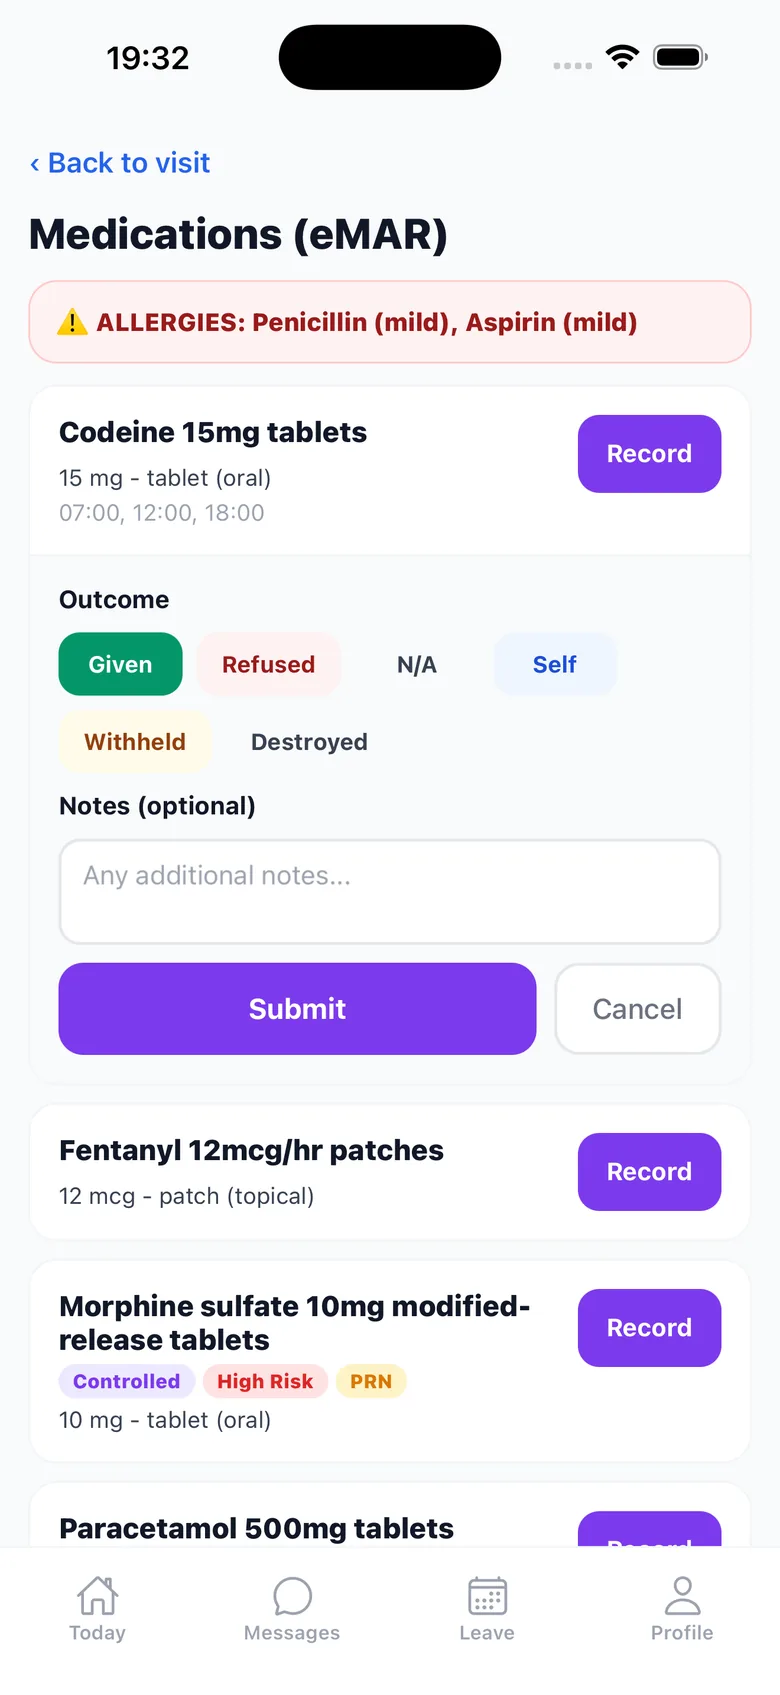
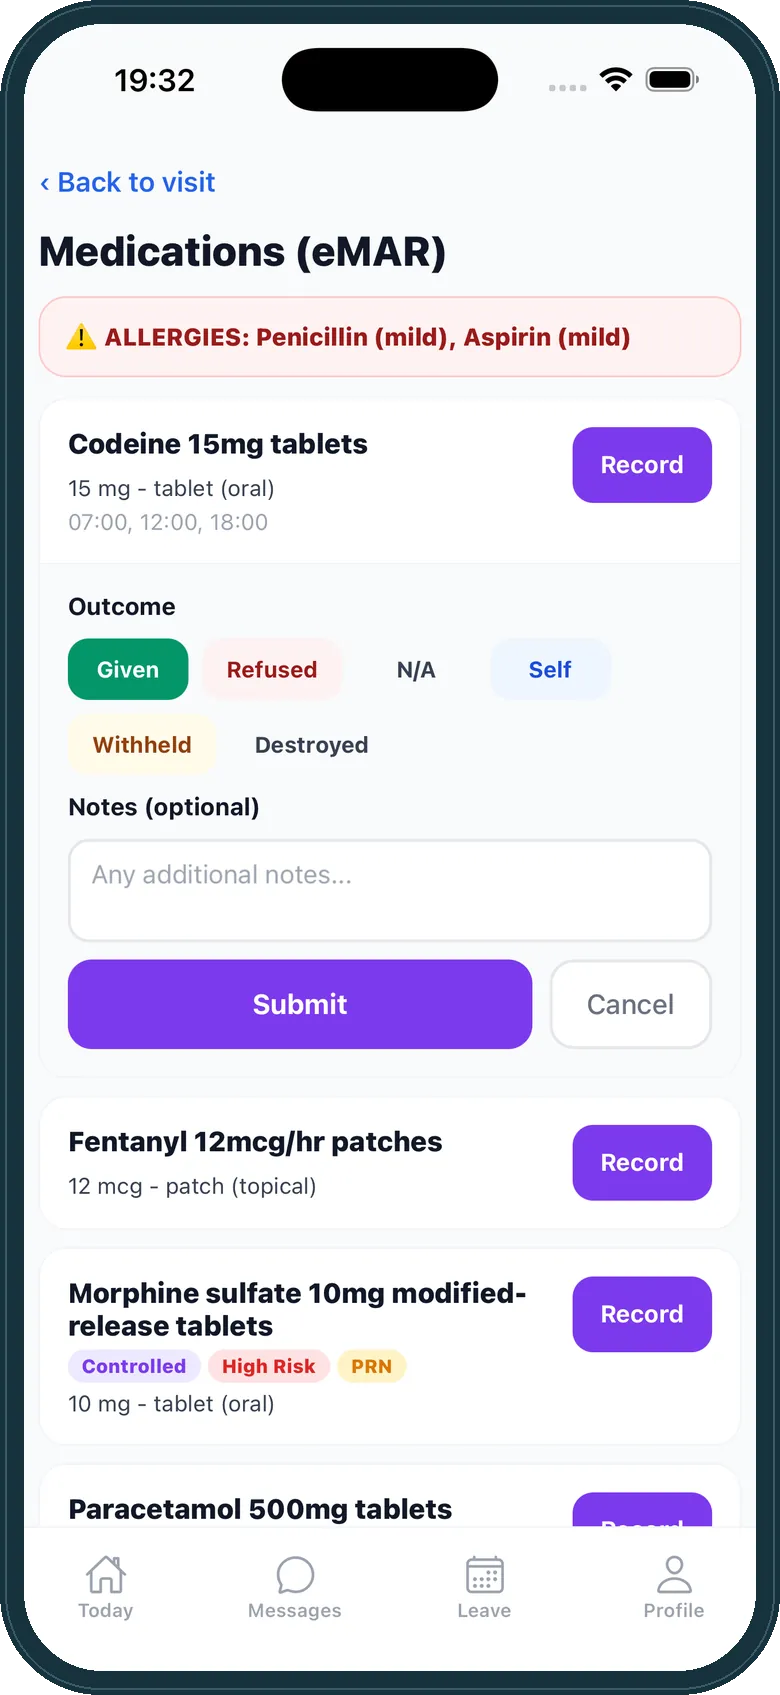
Frame the eMAR and visit-detail phone shots to match the image refresh (#12)

diff --git a/features-electronic-call-monitoring.html b/features-electronic-call-monitoring.html
@@ -216,7 +216,7 @@
           </div>
           <!-- IMAGE SLOT: new preview Visits list with live status, laptop 1400x840 (add beside the phone shot) -->
           <div class="feature-hero-visual has-phone">
-            <img src="images/photos/visit-detail-phone-390.webp" srcset="images/photos/visit-detail-phone-390.webp 1x, images/photos/visit-detail-phone.webp 2x" alt="The homecareOS carer app on a visit: the address, visit time and buttons to check in, record tasks, medications and observations" width="390" height="847" loading="lazy">
+            <img src="images/photos/visit-detail-phone-390.webp" srcset="images/photos/visit-detail-phone-390.webp 1x, images/photos/visit-detail-phone.webp 2x" alt="The homecareOS carer app on a visit: the address, visit time and buttons to check in, record tasks, medications and observations" width="390" height="844" loading="lazy">
           </div>
         </div>
       </div>

diff --git a/features-emar.html b/features-emar.html
@@ -265,7 +265,7 @@
     <section class="section">
       <div class="container">
         <div class="phone-split" data-reveal>
-          <img src="images/photos/emar-phone-390.webp" srcset="images/photos/emar-phone-390.webp 1x, images/photos/emar-phone.webp 2x" alt="The homecareOS carer app showing the medications due on this visit, each with Given, Refused and other outcome buttons" width="390" height="847" loading="lazy">
+          <img src="images/photos/emar-phone-390.webp" srcset="images/photos/emar-phone-390.webp 1x, images/photos/emar-phone.webp 2x" alt="The homecareOS carer app showing the medications due on this visit, each with Given, Refused and other outcome buttons" width="390" height="844" loading="lazy">
           <div>
             <span class="label">On the carer&rsquo;s phone</span>
             <h2>What the carer sees at the door</h2>
